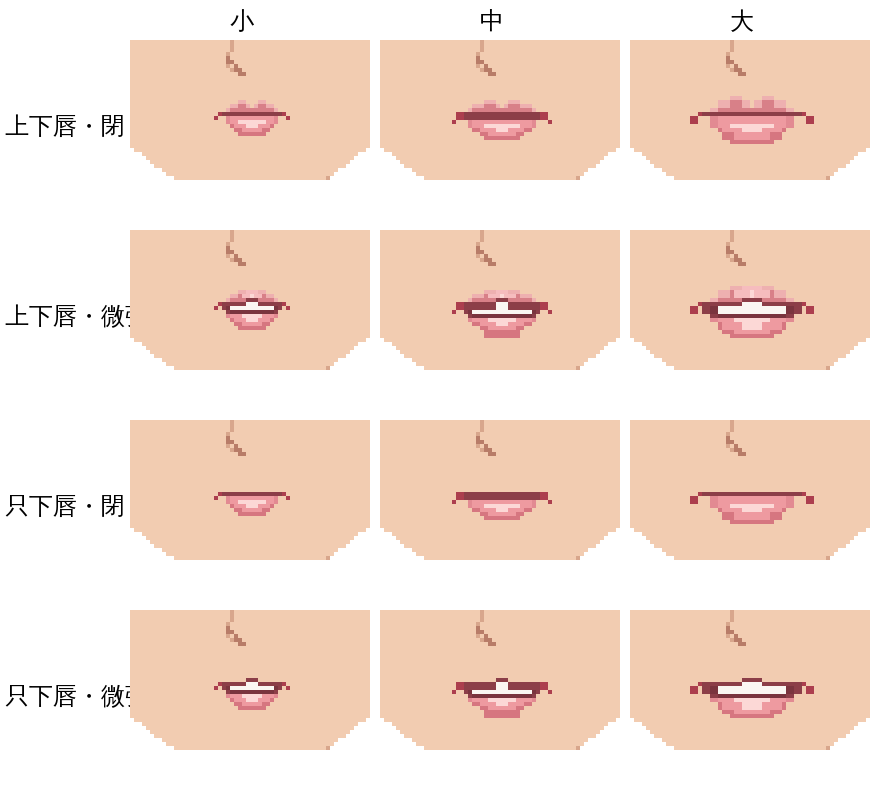
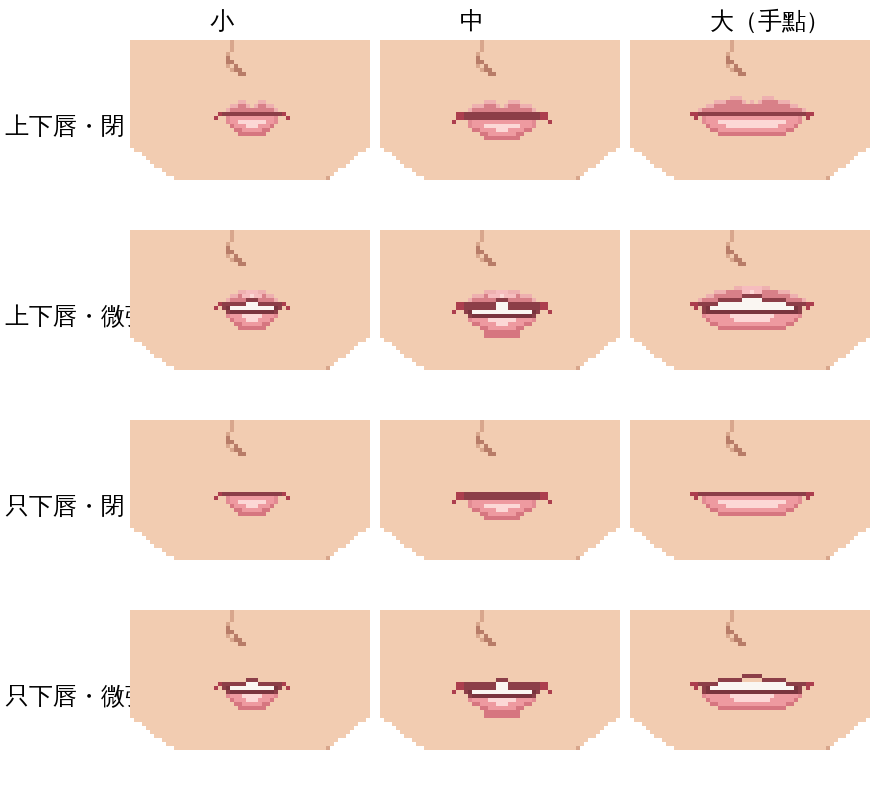
droom 臉模 v2：大嘴另外手點一張（31 格寬，閉嘴／微張，嘴角連著嘴縫往下勾、不再是分開的點；只下唇樣式照用）；samples/mouth_size_lips.png、mouth_big_face.png
Claude-Session: https://claude.ai/code/session_01FDQv7ddy7JMjePn6AqJ3VJ

diff --git a/web/droom/face_mold/v2/features.py b/web/droom/face_mold/v2/features.py
@@ -79,12 +79,21 @@ def mouth_px():
   def nums(name):return [float(v) for v in re.search(name+r'=\[(.*?)\]',src).group(1).split(',')]
   MT=os.environ.get('MT','closed')
   SP,DZ=(arr('OPEN'),nums('DZ1')) if MT=='open' else (arr('LIPS'),nums('DZ0'))
+  # 大嘴（MS=大）用手點的一張（使用者 2026-11-19：放大的嘴角像分開的點）；左半 16 格（最後一格是中線），右半鏡射
+  if os.environ.get('MS','小')=='大':
+    mir=lambda rows:[h+h[:15][::-1] for h in rows]
+    if MT=='open':
+      SP=mir(["...........uubbb","......uuuUUUUbbH","....uuUUUUUUULLL","..uUUUULLLLLLTTT","CCLLLLLTTTTTTTTT",".C.LMTTTTTTTTTTT","...LMMMMMMMMMMMM","...lPPPPPPHHHHHH","....DPPPPPPHHHHH",".....DDPPPPPPPPP",".......DDDDDDDDD"])
+      DZ=[0,0,0,0,-1.2,-3.2,-3.6,-1.8,-2.4,-3,-3.6]
+    else:
+      SP=mir(["..........uuu...","......uuuUUUUu.u","....uuUUUUUUUUUU","..uUUUUUUUUUUUUU","CCLLLLLLLLLLLLLL",".C.lPPPPPPPPPPPP","...lPPPHHHHHHHHH","....DPPPPHHHHHHH",".....DDPPPPPPPPP",".......DDDDDDDDD"])
+      DZ=[0,0,0,0,-.6,-1.6,-2.2,-2.8,-3.2,-3.6]
   LINE=[i for i,r in enumerate(SP) if 'C' in r][0]
   # 唇色樣式（使用者 2026-11-19）：LIPS=全＝上下唇都上色（原本）；LIPS=下唇＝上唇不上色、只留嘴縫的線，下唇有顏色
   if os.environ.get('LIPS','全')=='下唇':
     SP=[''.join(ch if ch=='L' else '.' for ch in row) if r<LINE else row for r,row in enumerate(SP)]
   # 嘴巴大小（MS=小／中／大）：小＝原本 19 格寬；中、大照比例放大（最近鄰，奇數寬才置中）
-  sx,sy={'小':(1,1),'中':(1.32,1.15),'大':(1.65,1.32)}[os.environ.get('MS','小')]
+  sx,sy={'小':(1,1),'中':(1.32,1.15),'大':(1,1)}[os.environ.get('MS','小')]   # 大＝上面手點的，不再放大
   if sx!=1 or sy!=1:
     W0,H0=len(SP[0]),len(SP);W2=round(W0*sx)|1;H2=round(H0*sy)
     SP=[''.join(SP[min(H0-1,int((r+.5)/sy))][min(W0-1,int((c+.5)*W0/W2))] for c in range(W2)) for r in range(H2)]
